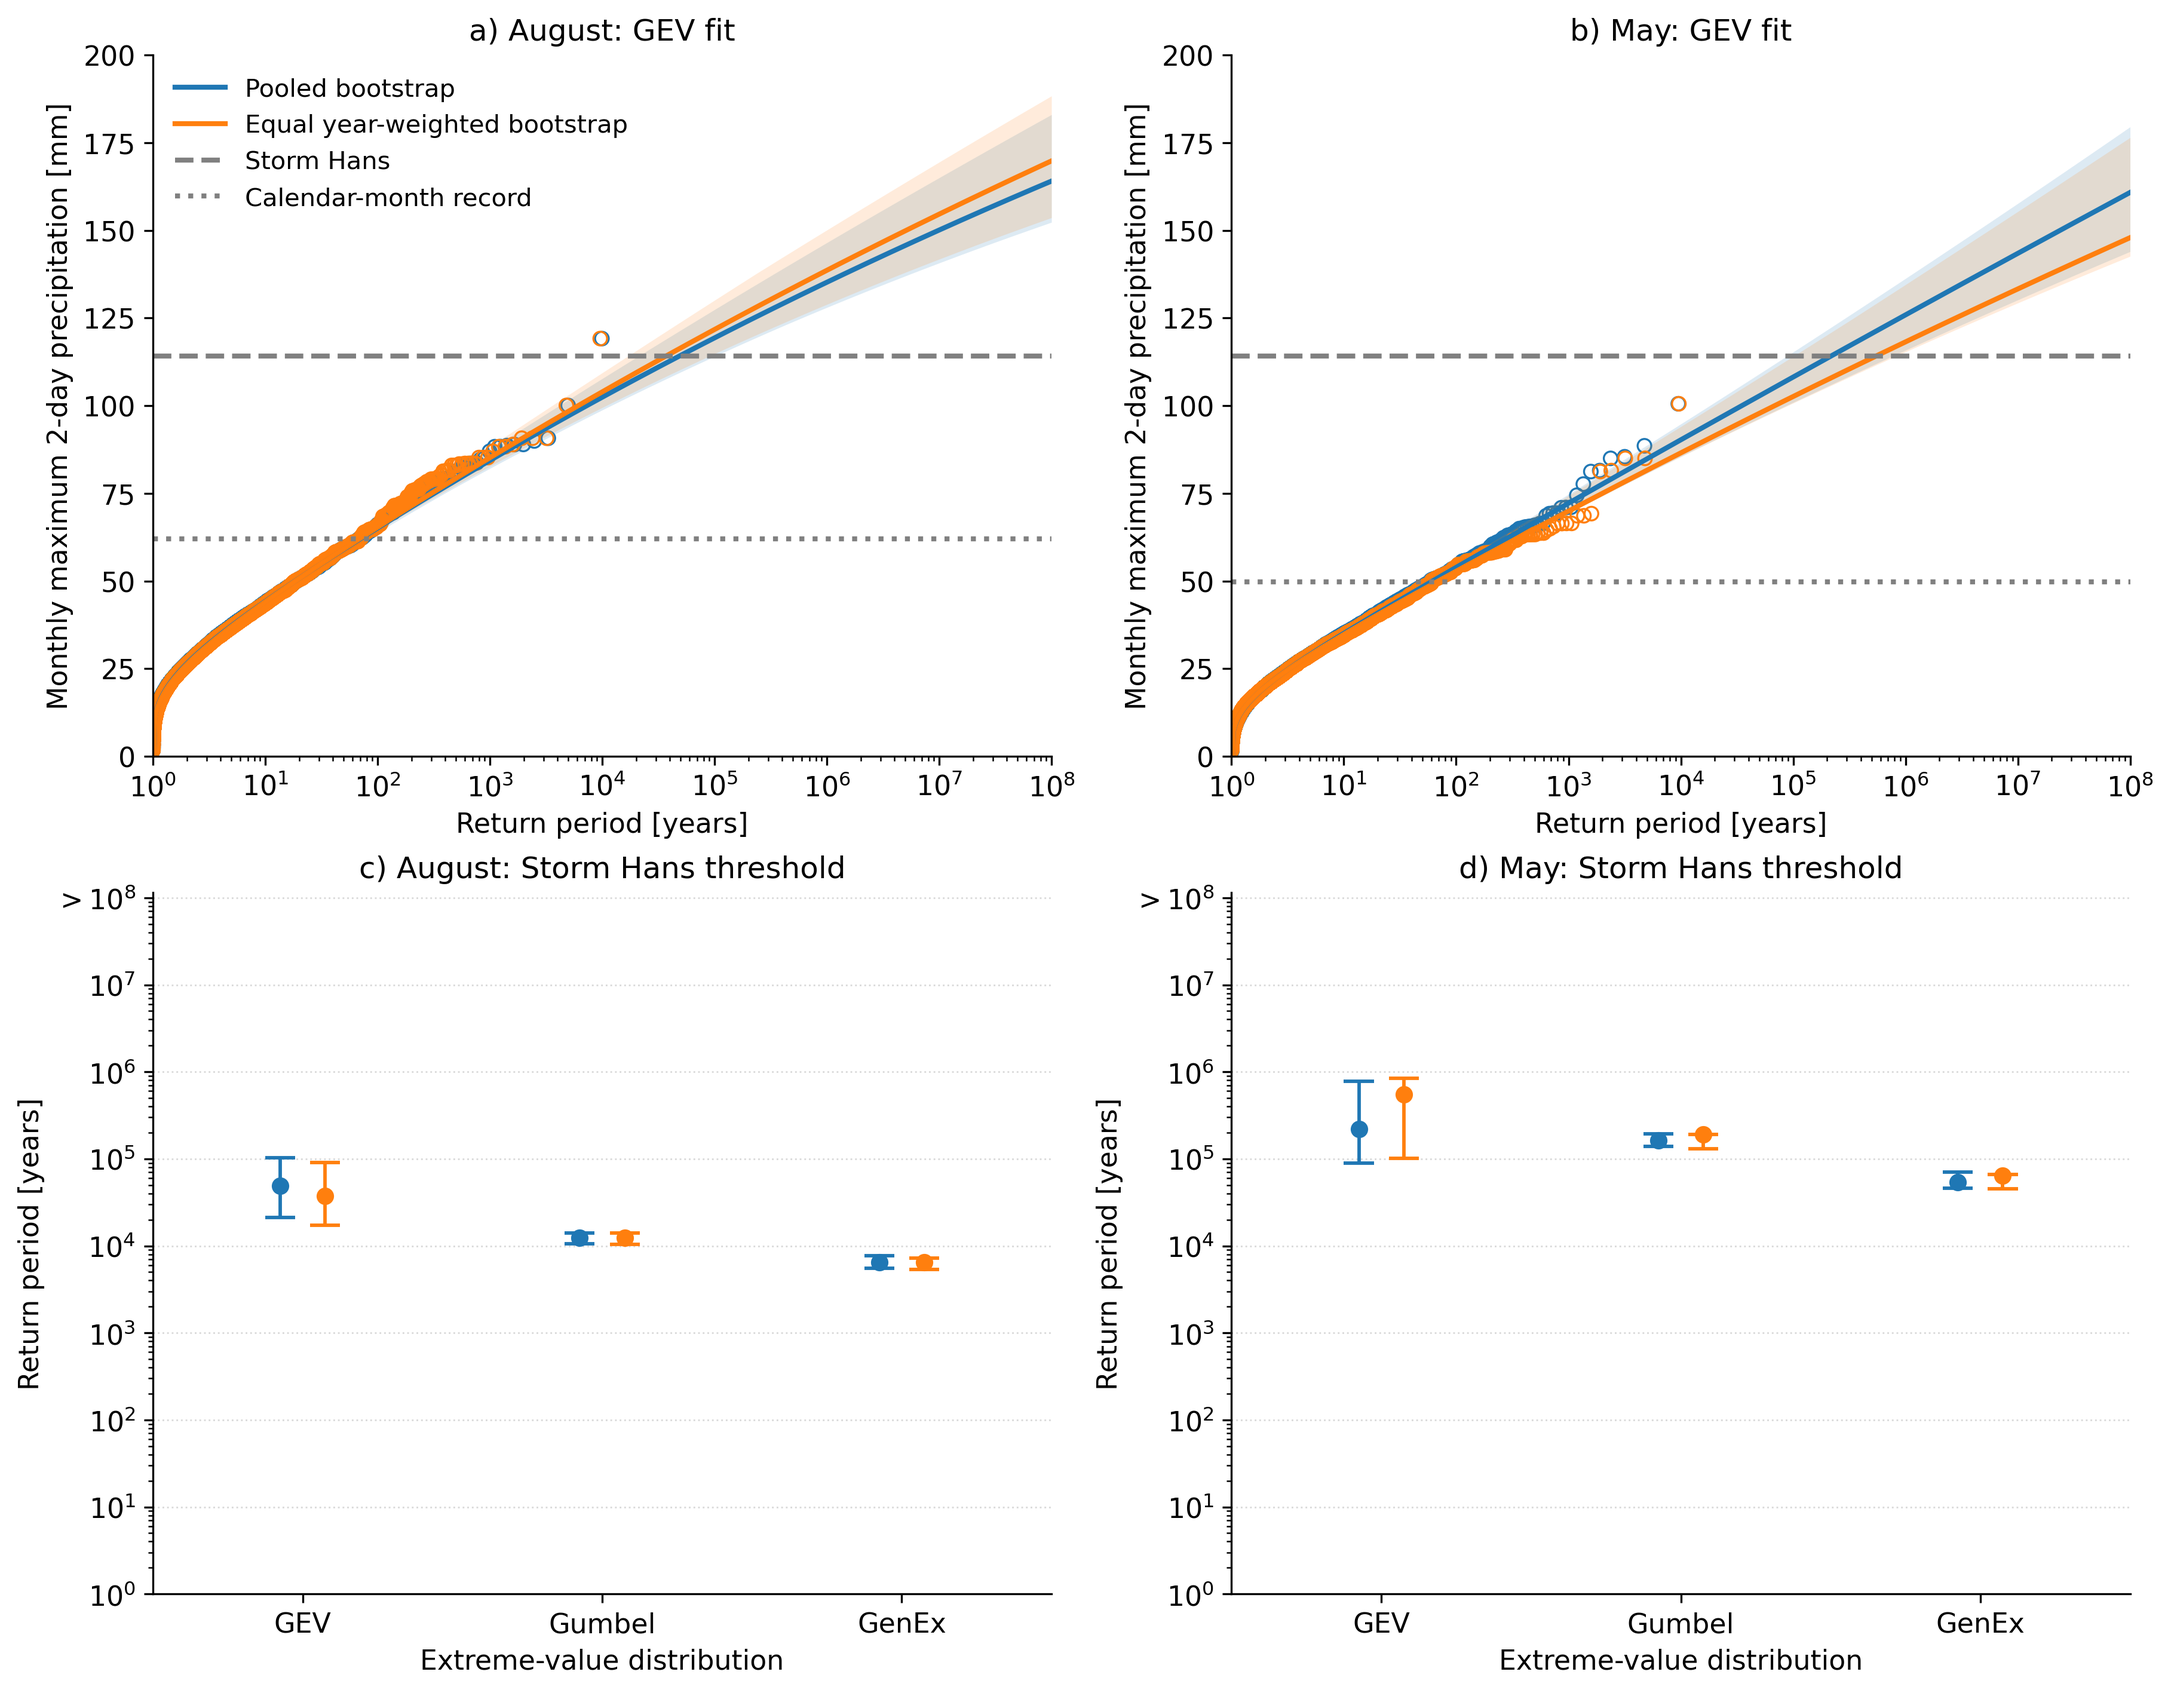
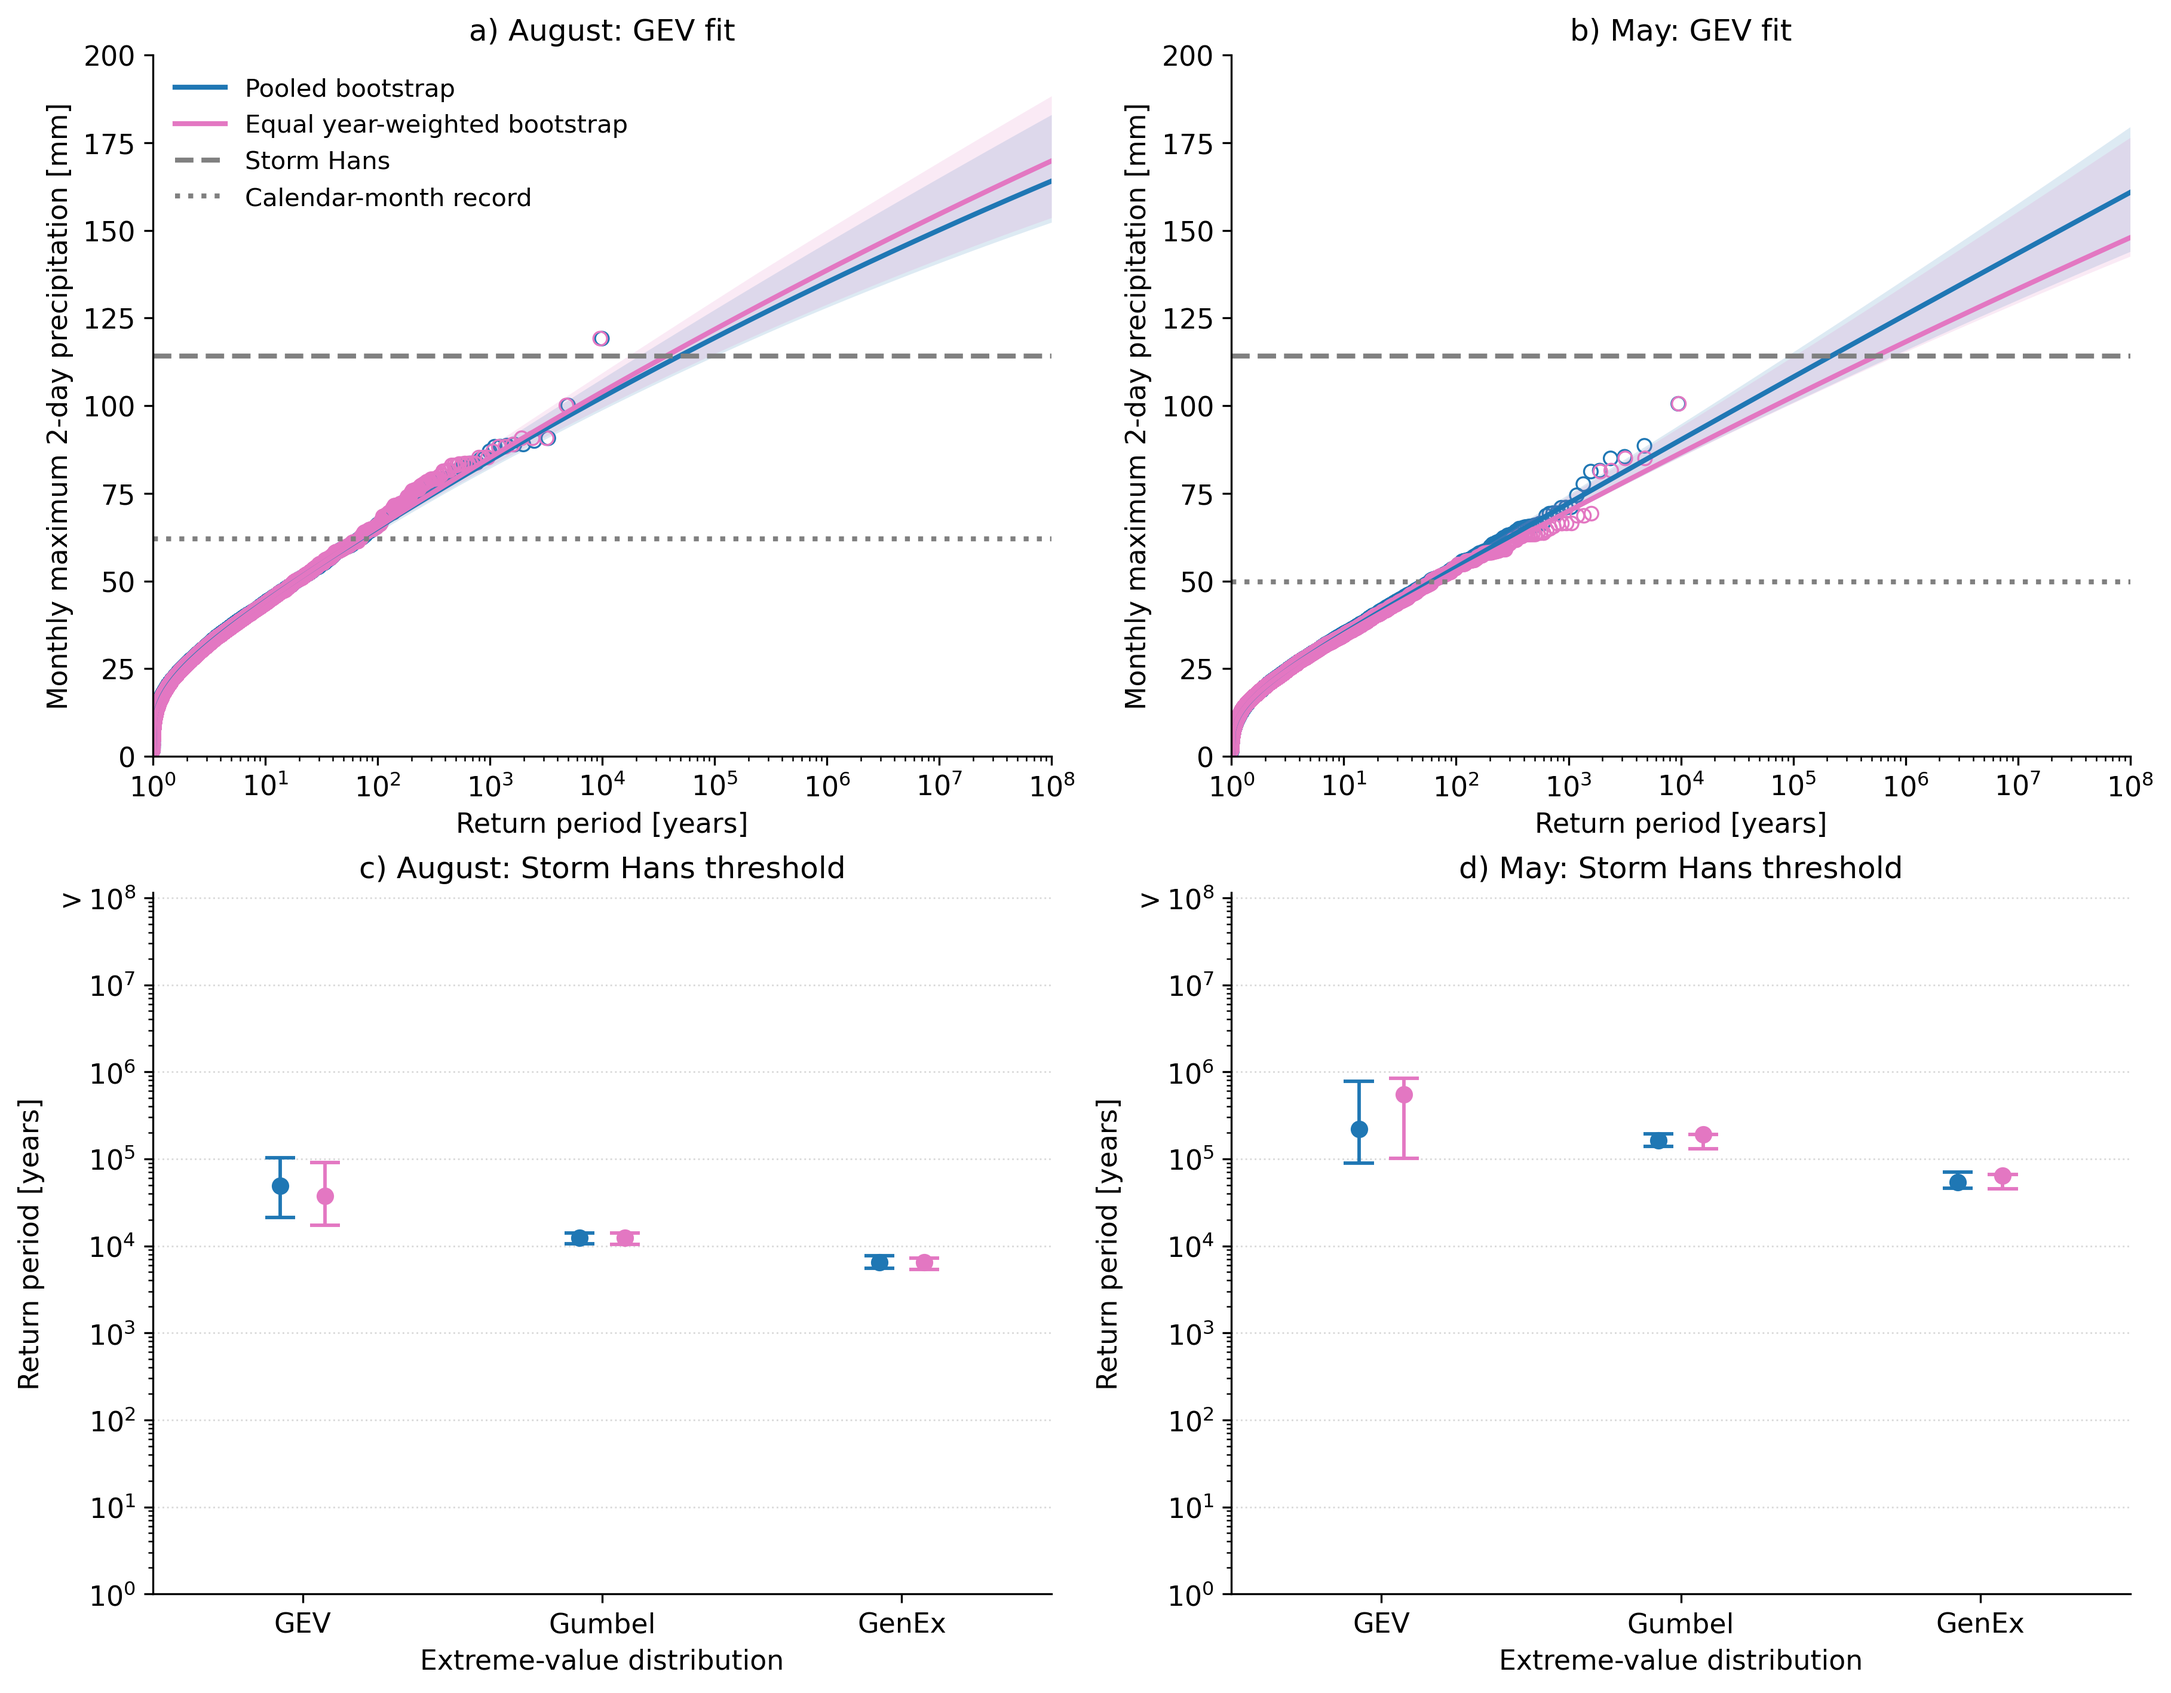
update

diff --git a/code/plot/paper_figs/plot-fig-S3.py b/code/plot/paper_figs/plot-fig-S3.py
@@ -75,7 +75,7 @@ INCLUDE_STORM_HANS_IN_FIT = True
 
 # Bootstrap uncertainty (also used for the printed interval-width ratios)
 BOOTSTRAP_METHOD = "nonparametric"  # "nonparametric" or "parametric"
-NUMBER_OF_BOOTSTRAPS = 100
+NUMBER_OF_BOOTSTRAPS = 20
 CONFIDENCE_LEVEL = 0.95
 MIN_SUCCESSFUL_BOOTSTRAP_FRACTION = 0.90
 RANDOM_SEED = 42
@@ -104,7 +104,7 @@ PRECIPITATION_YMAX = 200.0
 # =============================================================================
 # FIGURE OUTPUT — edit the directory or filename here
 # =============================================================================
-WRITE_TO_FILE = True
+WRITE_TO_FILE = False
 SHOW_FIGURE = True
 FIGURE_DPI = 300
 OUTPUT_DIRECTORY = Path(config.dirs["fig"])
@@ -133,6 +133,10 @@ OBSERVATION_COLOR = "tab:orange"
 MODEL_COLORS = {
     "raw": "tab:blue",
     "mm_1step": "tab:cyan",
+    "q_doy": "tab:brown",
+    "q": "tab:olive",
+    "doy": "tab:purple",
+    "ld": "tab:pink",
 }
 STORM_HANS_COLOR = "grey"
 RECORD_COLOR = "grey"

diff --git a/code/plot/paper_figs/plot-fig-S2.py b/code/plot/paper_figs/plot-fig-S2.py
@@ -128,7 +128,7 @@ METHODS = ["GEV", "Gumbel", "GenEx"]
 POOLED_GROUP = "pooled"
 BALANCED_GROUP = "equal_year"
 RESAMPLING_GROUPS = [POOLED_GROUP, BALANCED_GROUP]
-GROUP_COLORS = {POOLED_GROUP: "tab:blue", BALANCED_GROUP: "tab:orange"}
+GROUP_COLORS = {POOLED_GROUP: "tab:blue", BALANCED_GROUP: "tab:pink"}
 GROUP_LABELS = {POOLED_GROUP: 'Pooled bootstrap', BALANCED_GROUP: 'Equal year-weighted bootstrap'}
 
 
